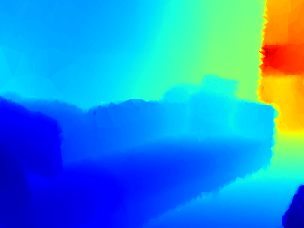
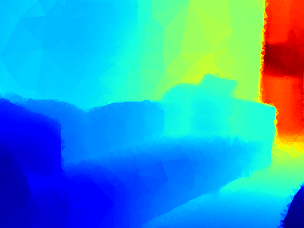
update to tridepth

diff --git a/index.html b/index.html
@@ -9,7 +9,10 @@
   <body>
     <header>
       <div class='header-wrapper'>
-        <h1>MeshDepth: Disconnected Mesh-based Deep Depth Prediction</h1>
+        <h1>TriDepth: Triangular Patch-based Deep Depth Prediction</h1>
+        <div class='conference'>
+          <p><a href='http://www.visualslam.ai/'>ICCV Deep Learning for Visual SLAM Workshop 2019 (oral)</a></p>
+        </div>
         <div class='authors clearfix'>
           <p>
             Masaya Kaneko
@@ -49,14 +52,14 @@
               <img src='MeshDepth_files/000093_ours.png'>
             </li>
             <li>
-              <p>3D Mesh</p>
+              <p>Triangular-patch-cloud</p>
               <img src='MeshDepth_files/000093_mesh.gif'>
             </li>
           </ul>
         </div>
         <div class='abstract'>
           <h2>Abstract</h2>
-          <p>We propose a novel method for mesh-based single-view depth estimation using Convolutional Neural Networks (CNNs). Conventional CNN-based methods are only suitable for representing simple 3D objects because they estimate the deformation from a predefined simple mesh such as a cube or sphere. As a 3D scene representation, we introduce a disconnected mesh made of 2D mesh adaptively determined on the input image. We made a CNN-based framework to compute depths and normals of faces of the mesh. Because of the representation, our method can handle complex indoor scenes. Using common RGBD datasets, we show that our model achieved best or comparable performance comparing to the state-of-the-art pixel-wise dense methods. It should be noted that our method significantly reduce the number of the parameter representing the 3D structure.</p>
+          <p>We propose a novel and efficient representation for single-view depth estimation using Convolutional Neural Networks (CNNs). Point-cloud is generally used for CNN-based 3D scene reconstruction; however it has some drawbacks: (1) it is redundant as a representation for planar surfaces, and (2) no spatial relationships between points are available (e.g, texture and surface). As a more efficient representation, we introduce a triangular-patch-cloud, which represents the surface of the 3D structure using a set of triangular patches, and propose a CNN framework for its 3D structure estimation. In our framework, we create it by separating all the faces in a 2D mesh, which are determined adaptively from the input image, and estimate depths and normals of all the faces. Using a common RGBD-dataset, we show that our representation has a better or comparable performance than the existing point-cloud-based methods, although it has much less parameters.</p>
           <div class='files clearfix'>
             <p>
               [
@@ -251,18 +254,16 @@
         </section>
         <section>
           <h2>Video</h2>
-          <div class='video'>
-            <iframe allow='accelerometer; autoplay; encrypted-media; gyroscope; picture-in-picture' allowfullscrean frameborder='0' height='315' src='https://www.youtube.com/embed/ZPG6UFpYcI4' width='560'></iframe>
-          </div>
+          <p>Coming soon...</p>
         </section>
         <section>
           <h2>Citation</h2>
 <pre>
-@misc{1905.01312,
+@misc{kaneko19tridepth,
   Author = {Masaya Kaneko and Ken Sakurada and Kiyoharu Aizawa},
-  Title = {MeshDepth: Disconnected Mesh-based Deep Depth Prediction},
+  Title = {TriDepth: Triangular Patch-based Deep Depth Prediction},
+  Booktitle = {ICCV Deep Learning for Visual SLAM Workshop},
   Year = {2019},
-  Eprint = {arXiv:1905.01312},
 }
 </pre>
         </section>

diff --git a/style.css b/style.css
@@ -150,6 +150,23 @@ p {
 .header-wrapper .authors a {
   color: #3376cb;
 }
+
+.header-wrapper .conference {
+  margin: 20px auto 0;
+  display: table;
+  font-size: 23px;
+}
+.header-wrapper .conference p {
+  text-align: center;
+  margin: 0;
+  font-size: 25px;
+}
+@media screen and (max-width: 980px) {
+  .header-wrapper .conference p {
+    font-size: 14px;
+  }
+}
+
 .header-wrapper .belongs {
   margin: 20px auto 0;
   display: table;
